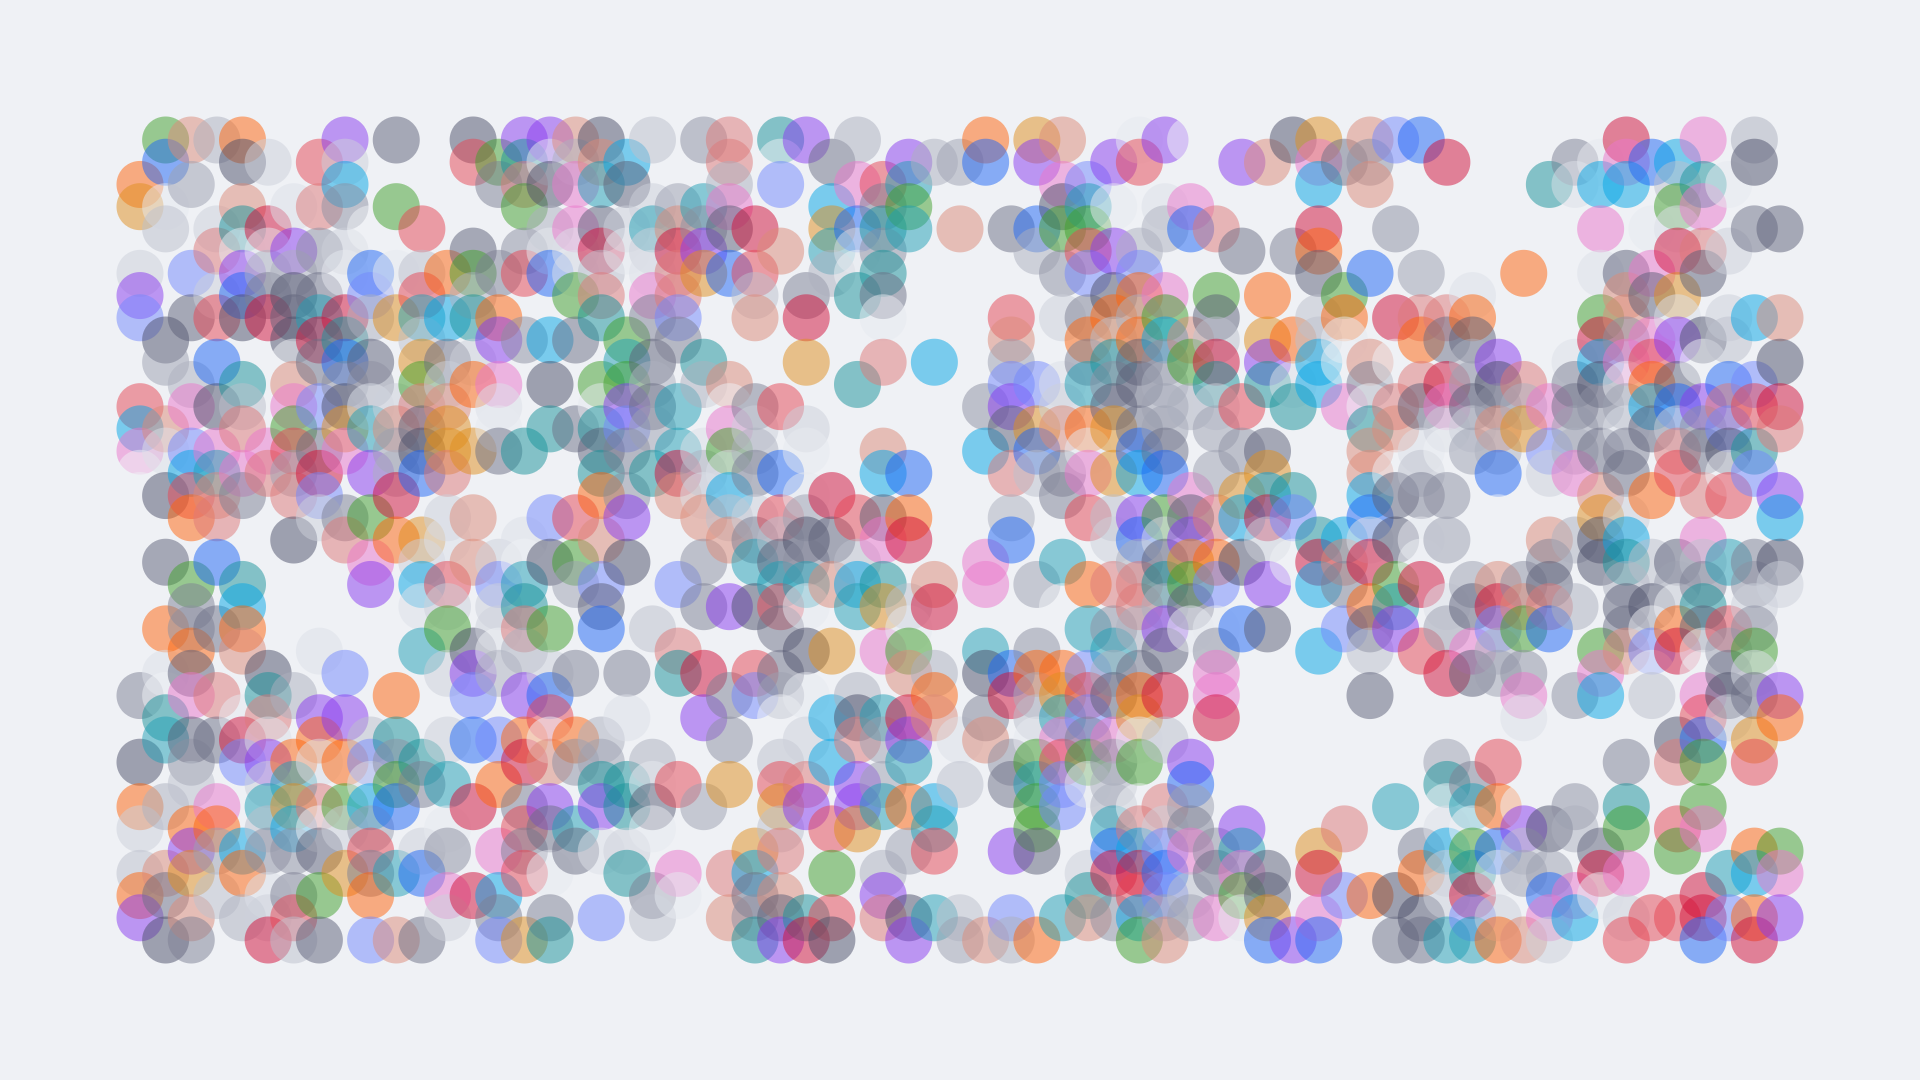
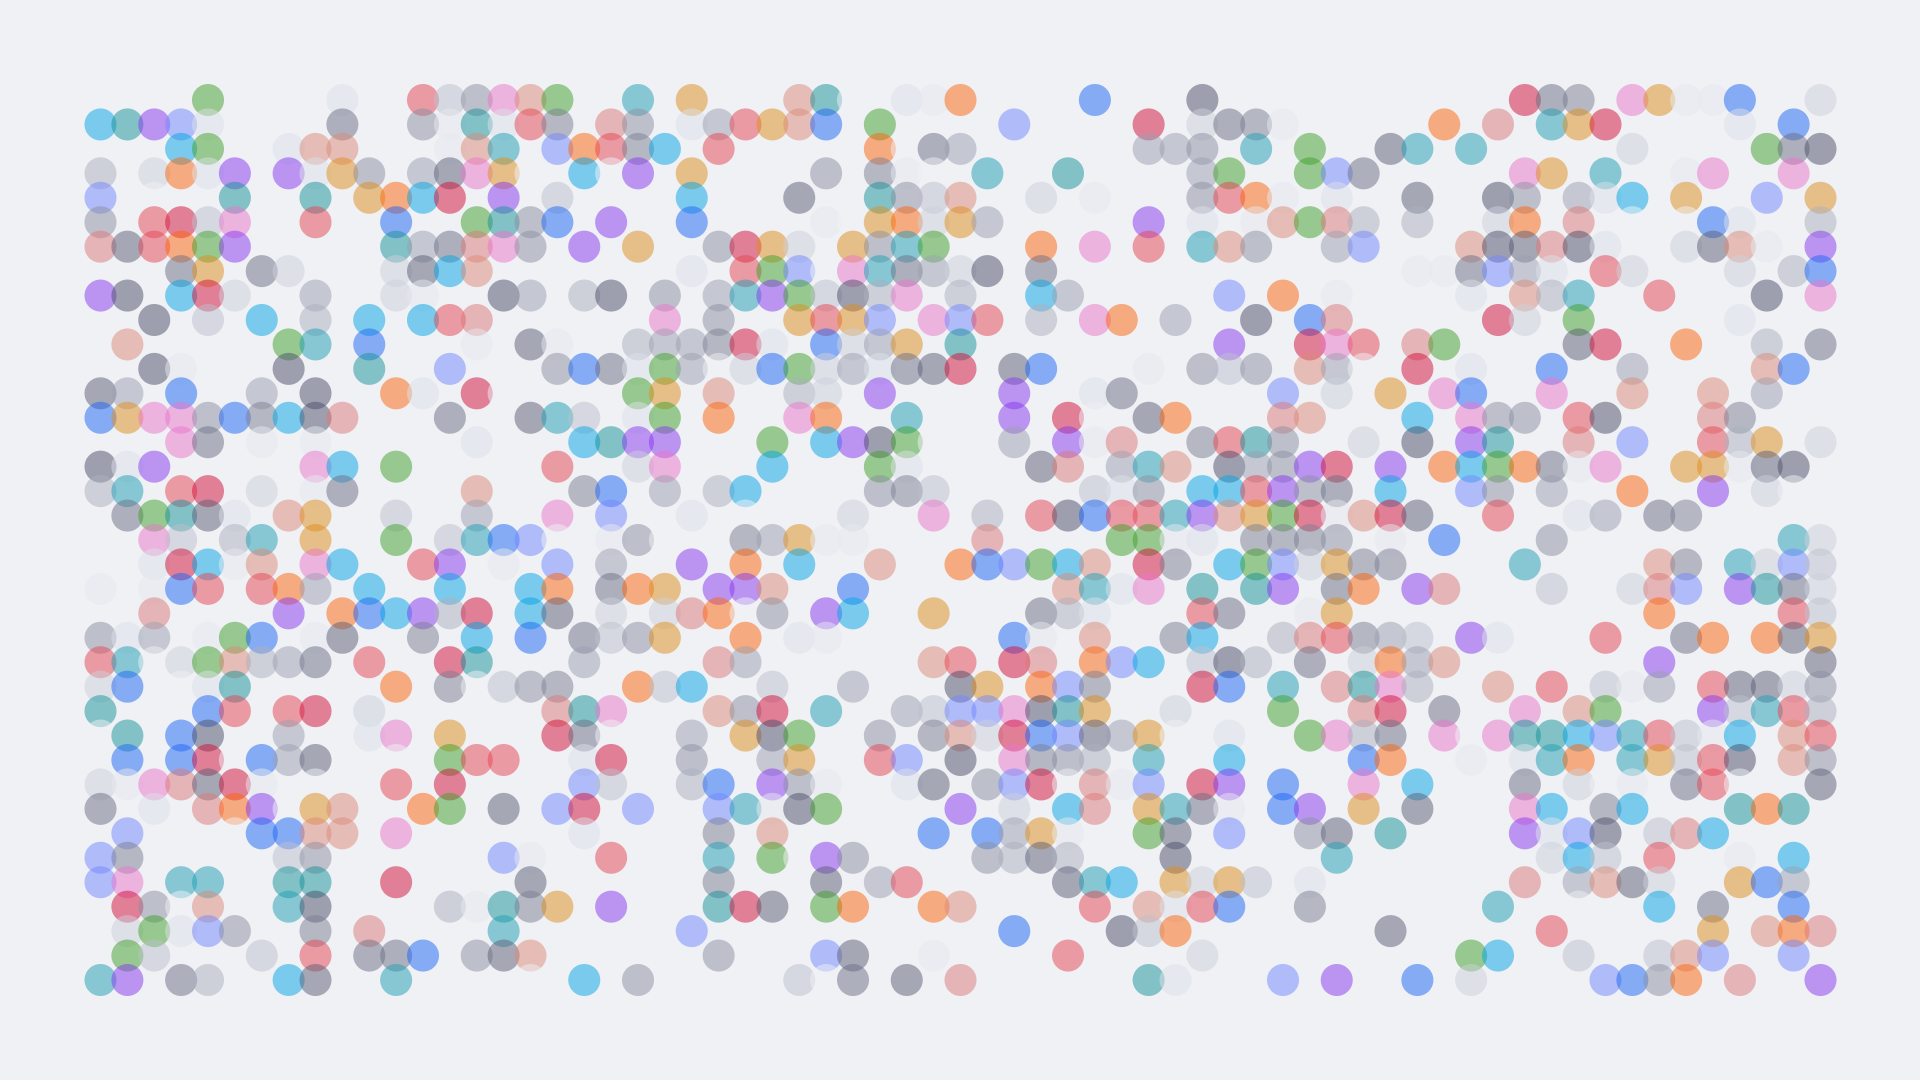
docs: update samples

diff --git a/docs/samples.md b/docs/samples.md
@@ -4,33 +4,17 @@
 
 ### Frappé
 
-```bash
-$ wally -p catppuccin-frappe dots
-```
-
 ![Catppuccin Frappé sample.](../.github/assets/catppuccin-frappe.png)
 
 ### Latte
-
-```bash
-$ wally --padding 140 -p catppuccin-latte dots -s 30
-```
 
 ![Catppuccin Latte sample.](../.github/assets/catppuccin-latte.png)
 
 ### Macchiato
 
-```bash
-$ wally -p catppuccin-macchiato dots -d 100 -s 120
-```
-
 ![Catppuccin Macchiato sample.](../.github/assets/catppuccin-macchiato.png)
 
 ### Mocha
-
-```bash
-$ wally --padding 150 -p catppuccin-mocha dots -d 50 -s 50
-```
 
 ![Catppuccin Mocha sample.](../.github/assets/catppuccin-mocha.png)
 
@@ -38,24 +22,12 @@ $ wally --padding 150 -p catppuccin-mocha dots -d 50 -s 50
 
 ### Dawn
 
-```bash
-$ wally --padding 100 -p rose-pine-dawn dots -d 30 -s 12
-```
-
 ![Rosé Pine Dawn sample.](../.github/assets/rose-pine-dawn.png)
 
 ### Default
 
-```bash
-$ wally --padding 250 -p rose-pine-default dots -d 160 -s 160
-```
-
 ![Rosé Pine sample.](../.github/assets/rose-pine-default.png)
 
 ### Moon
-
-```bash
-$ wally --padding 180 -p rose-pine-moon dots -d 80 -s 60
-```
 
 ![Rosé Pine Moon sample.](../.github/assets/rose-pine-moon.png)
